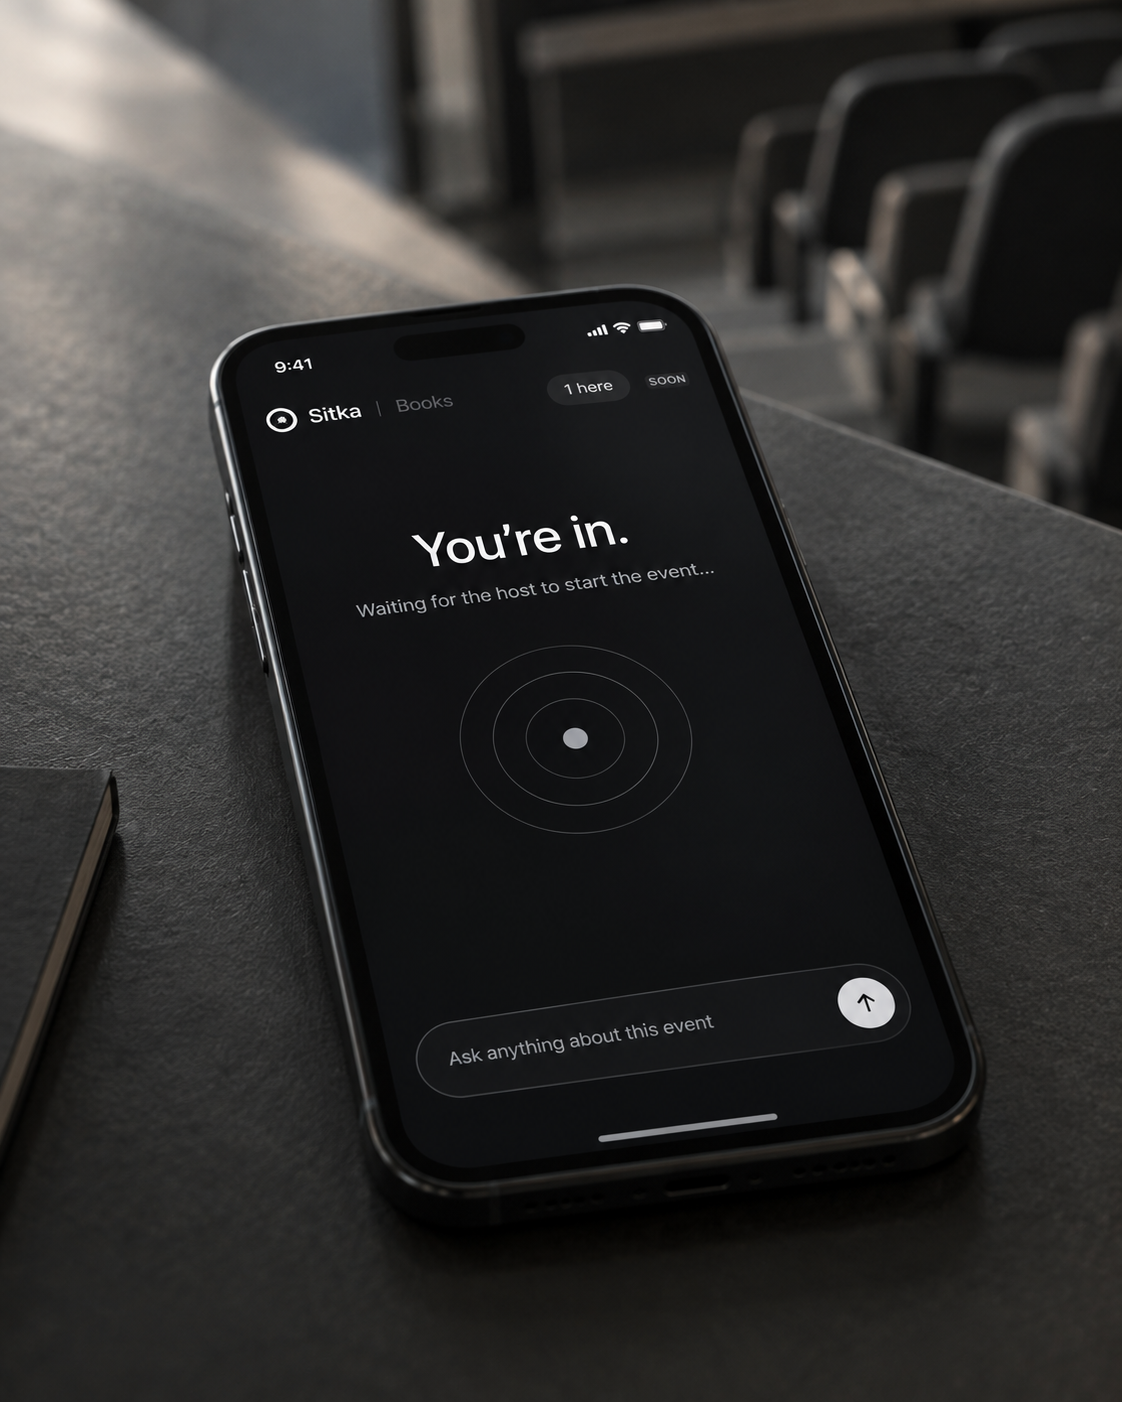
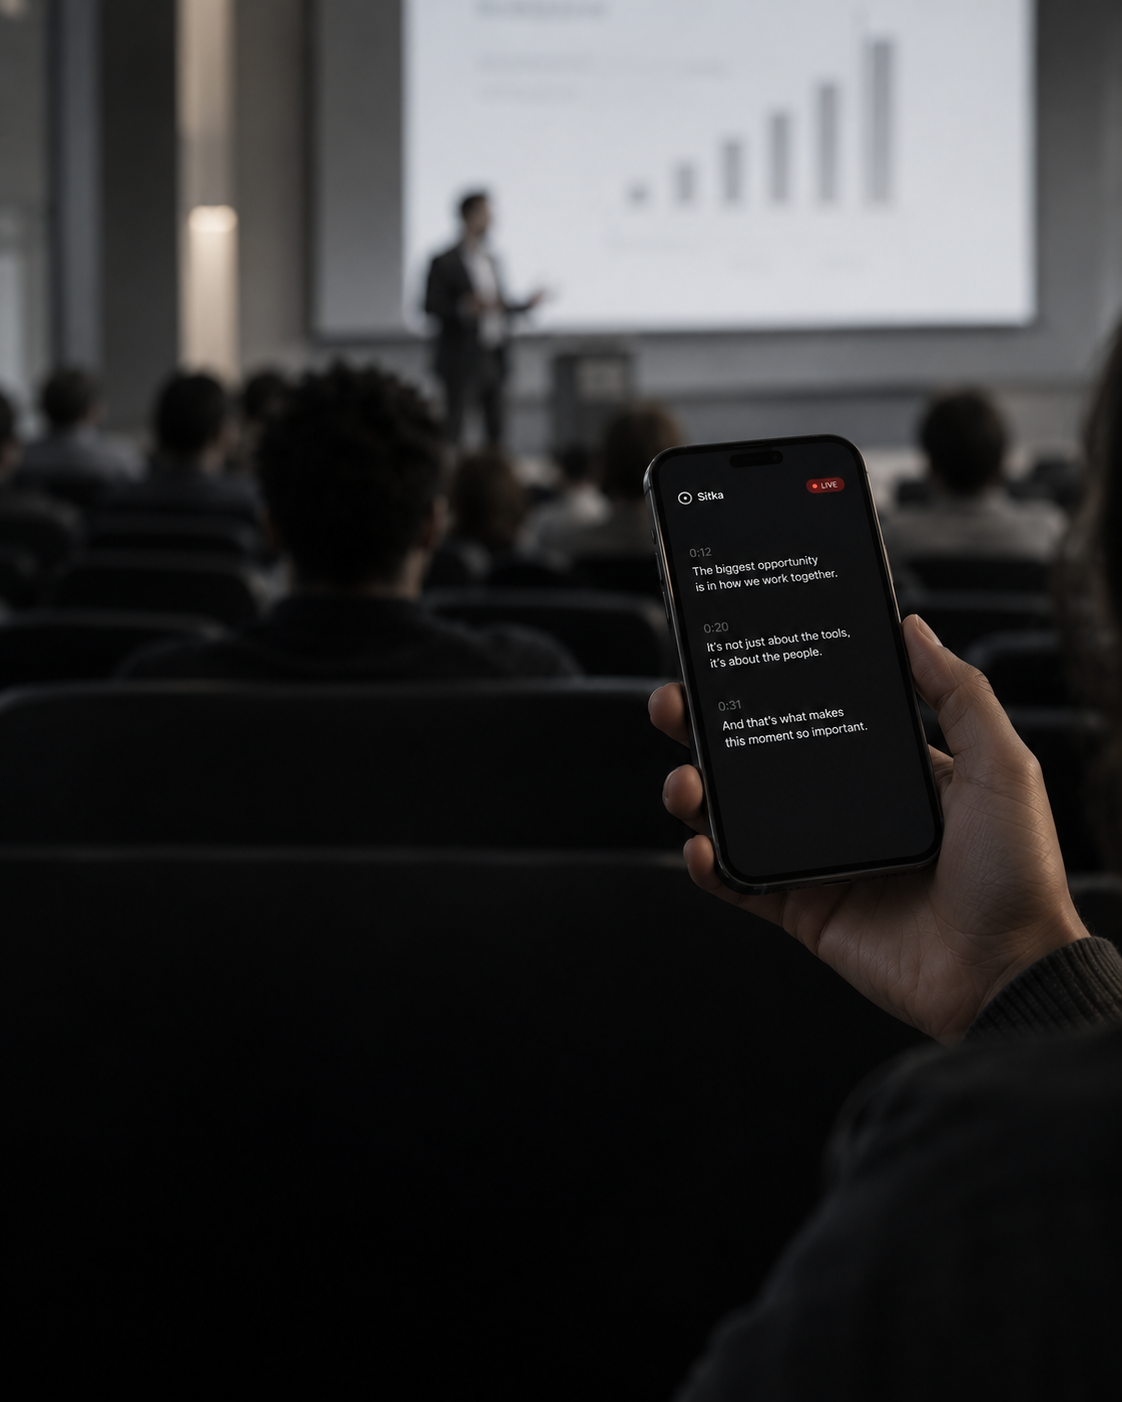
The event join screen opens on its own photograph

diff --git a/web/src/style.css b/web/src/style.css
@@ -204,9 +204,9 @@ select{background-image:linear-gradient(45deg,transparent 50%,var(--t3) 50%),lin
 /* the photograph fills the side; a veil deepens towards the foot so the words read in white.
    On a phone it is the band at the top of the page, the words at its foot. */
 .joinvis{background:#111114;color:#f1f1f3;position:relative;overflow:hidden;flex:none;display:flex;align-items:flex-end;min-height:380px}
-.jv-photo{position:absolute;inset:0;width:100%;height:100%;object-fit:cover;object-position:center 26%;display:block;opacity:0;transition:opacity .35s ease;z-index:0}
+.jv-photo{position:absolute;inset:0;width:100%;height:100%;object-fit:cover;object-position:center 44%;display:block;opacity:0;transition:opacity .35s ease;z-index:0}
 .jv-photo.in{opacity:1}
-.jv-glimpse{position:absolute;inset:-6%;background-size:cover;background-position:center 26%;filter:blur(18px);transform:scale(1.04);z-index:0}
+.jv-glimpse{position:absolute;inset:-6%;background-size:cover;background-position:center 44%;filter:blur(18px);transform:scale(1.04);z-index:0}
 .jv-veil{position:absolute;inset:0;background:linear-gradient(to top,rgba(10,10,12,.94) 0%,rgba(10,10,12,.66) 34%,rgba(10,10,12,.16) 66%,rgba(10,10,12,.22) 100%);pointer-events:none;z-index:0}
 .jv-in{position:relative;z-index:1;padding:26px 22px 22px;max-width:520px;text-shadow:0 1px 10px rgba(0,0,0,.35)}
 .jv-title{font-size:clamp(22px,3vw,34px);line-height:1.1;letter-spacing:-.03em;font-weight:800;margin:0 0 10px}
@@ -284,7 +284,7 @@ header a.brand{color:inherit;text-decoration:none}
 @media(min-width:900px){
   .joinwrap{flex-direction:row;overflow:hidden}
   .joinvis{flex:0 0 46%;display:flex;align-items:flex-end;min-height:0}
-  .jv-photo,.jv-glimpse{object-position:center 40%;background-position:center 40%}
+  .jv-photo,.jv-glimpse{object-position:center 45%;background-position:center 45%}
   .jv-in{padding:48px 52px 44px;max-width:560px}
   .jv-sub{font-size:16px}
   .joinform{align-items:center;overflow-y:auto;padding:40px 48px}

diff --git a/web/event.html b/web/event.html
@@ -40,7 +40,7 @@
 
 <div id="join" class="joinwrap hidden">
   <aside class="joinvis" aria-hidden="true">
[2 lines of base64/hex data omitted]
     <img class="jv-photo" src="/event-join.webp" alt="" decoding="async" fetchpriority="high" onload="this.classList.add('in')">
     <div class="jv-veil"></div>
     <div class="jv-in">
